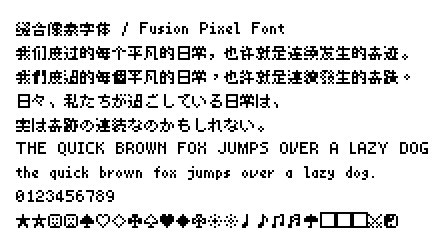
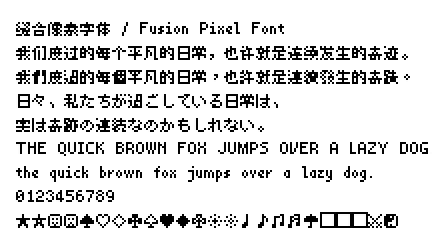
2026.05.07

diff --git a/tools/configs/__init__.py b/tools/configs/__init__.py
@@ -7,7 +7,7 @@ from tools.configs.fallback import FallbackConfig
 from tools.configs.font import FontConfig
 from tools.configs.upgrade import UpgradeConfig
 
-version = '2026.02.27'
+version = '2026.05.07'
 
 font_configs = {font_size: FontConfig.load(font_size) for font_size in options.font_sizes}
 

diff --git a/docs/info-12px-monospaced.md b/docs/info-12px-monospaced.md
@@ -4,8 +4,8 @@
 
 | 属性 | 值 |
 |---|---|
-| 版本号 | 2026.02.27 |
-| 字符总数 | 36146 |
+| 版本号 | 2026.05.07 |
+| 字符总数 | 36492 |
 
 ## Unicode 字符分布
 
@@ -24,7 +24,7 @@ Unicode 版本：17.0.0
 | 2100 ~ 214F | Letterlike Symbols | 字母式符号 | 9 / 80 | 71 | 11.25% 🚧 |
 | 2150 ~ 218F | Number Forms | 数字形式 | 60 / 60 | 0 | 100.00% 🚩 |
 | 2190 ~ 21FF | Arrows | 箭头 | 112 / 112 | 0 | 100.00% 🚩 |
-| 2300 ~ 23FF | Miscellaneous Technical | 各式技术符号 | 43 / 256 | 213 | 16.80% 🚧 |
+| 2300 ~ 23FF | Miscellaneous Technical | 各式技术符号 | 46 / 256 | 210 | 17.97% 🚧 |
 | 2460 ~ 24FF | Enclosed Alphanumerics | 包围字母数字 | 160 / 160 | 0 | 100.00% 🚩 |
 | 2500 ~ 257F | Box Drawing | 制表符 | 128 / 128 | 0 | 100.00% 🚩 |
 | 2580 ~ 259F | Block Elements | 方块元素 | 32 / 32 | 0 | 100.00% 🚩 |
@@ -43,21 +43,21 @@ Unicode 版本：17.0.0
 | 3130 ~ 318F | Hangul Compatibility Jamo | 谚文兼容字母 | 94 / 94 | 0 | 100.00% 🚩 |
 | 3200 ~ 32FF | Enclosed CJK Letters and Months | 包围中日韩字母与月份 | 92 / 255 | 163 | 36.08% 🚧 |
 | 3300 ~ 33FF | CJK Compatibility | 中日韩兼容 | 60 / 256 | 196 | 23.44% 🚧 |
-| 3400 ~ 4DBF | CJK Unified Ideographs Extension A | 中日韩统一表意文字扩充 A | 1324 / 6592 | 5268 | 20.08% 🚧 |
-| 4E00 ~ 9FFF | CJK Unified Ideographs | 中日韩统一表意文字 | 19174 / 20992 | 1818 | 91.34% 🚧 |
+| 3400 ~ 4DBF | CJK Unified Ideographs Extension A | 中日韩统一表意文字扩充 A | 1480 / 6592 | 5112 | 22.45% 🚧 |
+| 4E00 ~ 9FFF | CJK Unified Ideographs | 中日韩统一表意文字 | 19211 / 20992 | 1781 | 91.52% 🚧 |
 | A720 ~ A7FF | Latin Extended-D | 拉丁扩充-D | 7 / 204 | 197 | 3.43% 🚧 |
 | AC00 ~ D7AF | Hangul Syllables | 谚文音节 | 11172 / 11172 | 0 | 100.00% 🚩 |
-| E000 ~ F8FF | Private Use Area | 私用区域 | 238 / 0 | 0 | 100.00% 🚩 |
+| E000 ~ F8FF | Private Use Area | 私用区域 | 243 / 0 | 0 | 100.00% 🚩 |
 | FE10 ~ FE1F | Vertical Forms | 竖排形式 | 10 / 10 | 0 | 100.00% 🚩 |
 | FE30 ~ FE4F | CJK Compatibility Forms | 中日韩兼容形式 | 32 / 32 | 0 | 100.00% 🚩 |
 | FF00 ~ FFEF | Halfwidth and Fullwidth Forms | 半宽与全宽形式 | 173 / 225 | 52 | 76.89% 🚧 |
 | FFF0 ~ FFFF | Specials | 特殊 | 2 / 2 | 0 | 100.00% 🚩 |
 | 16FE0 ~ 16FFF | Ideographic Symbols and Punctuation | 表意文字符号与标点 | 5 / 12 | 7 | 41.67% 🚧 |
-| 1F100 ~ 1F1FF | Enclosed Alphanumeric Supplement | 包围字母数字增补 | 135 / 200 | 65 | 67.50% 🚧 |
-| 20000 ~ 2A6DF | CJK Unified Ideographs Extension B | 中日韩统一表意文字扩充 B | 1019 / 42720 | 41701 | 2.39% 🚧 |
-| 2A700 ~ 2B73F | CJK Unified Ideographs Extension C | 中日韩统一表意文字扩充 C | 33 / 4160 | 4127 | 0.79% 🚧 |
+| 1F100 ~ 1F1FF | Enclosed Alphanumeric Supplement | 包围字母数字增补 | 145 / 200 | 55 | 72.50% 🚧 |
+| 20000 ~ 2A6DF | CJK Unified Ideographs Extension B | 中日韩统一表意文字扩充 B | 1146 / 42720 | 41574 | 2.68% 🚧 |
+| 2A700 ~ 2B73F | CJK Unified Ideographs Extension C | 中日韩统一表意文字扩充 C | 36 / 4160 | 4124 | 0.87% 🚧 |
 | 2B740 ~ 2B81F | CJK Unified Ideographs Extension D | 中日韩统一表意文字扩充 D | 11 / 222 | 211 | 4.95% 🚧 |
-| 2B820 ~ 2CEAF | CJK Unified Ideographs Extension E | 中日韩统一表意文字扩充 E | 34 / 5774 | 5740 | 0.59% 🚧 |
+| 2B820 ~ 2CEAF | CJK Unified Ideographs Extension E | 中日韩统一表意文字扩充 E | 39 / 5774 | 5735 | 0.68% 🚧 |
 | 2CEB0 ~ 2EBEF | CJK Unified Ideographs Extension F | 中日韩统一表意文字扩充 F | 4 / 7473 | 7469 | 0.05% 🚧 |
 | 30000 ~ 3134F | CJK Unified Ideographs Extension G | 中日韩统一表意文字扩充 G | 6 / 4939 | 4933 | 0.12% 🚧 |
 
@@ -68,9 +68,9 @@ Unicode 版本：17.0.0
 | 区块名称 | 完成数 | 缺失数 | 进度 |
 |---|---:|---:|---:|
 | 一级汉字 | 3755 / 3755 | 0 | 100.00% 🚩 |
-| 二级汉字 | 2856 / 3008 | 152 | 94.95% 🚧 |
+| 二级汉字 | 2861 / 3008 | 147 | 95.11% 🚧 |
 | 其他字符 | 651 / 682 | 31 | 95.45% 🚧 |
-| 总计 | 7262 / 7445 | 183 | 97.54% 🚧 |
+| 总计 | 7267 / 7445 | 178 | 97.61% 🚧 |
 
 ## Big5 字符分布
 
@@ -79,9 +79,9 @@ Unicode 版本：17.0.0
 | 区块名称 | 完成数 | 缺失数 | 进度 |
 |---|---:|---:|---:|
 | 常用汉字 | 5401 / 5401 | 0 | 100.00% 🚩 |
-| 次常用汉字 | 6669 / 7652 | 983 | 87.15% 🚧 |
+| 次常用汉字 | 6686 / 7652 | 966 | 87.38% 🚧 |
 | 其他字符 | 345 / 408 | 63 | 84.56% 🚧 |
-| 总计 | 12415 / 13461 | 1046 | 92.23% 🚧 |
+| 总计 | 12432 / 13461 | 1029 | 92.36% 🚧 |
 
 ## Shift-JIS 字符分布
 

diff --git a/docs/info-12px-proportional.md b/docs/info-12px-proportional.md
@@ -4,8 +4,8 @@
 
 | 属性 | 值 |
 |---|---|
-| 版本号 | 2026.02.27 |
-| 字符总数 | 36165 |
+| 版本号 | 2026.05.07 |
+| 字符总数 | 36511 |
 
 ## Unicode 字符分布
 
@@ -24,7 +24,7 @@ Unicode 版本：17.0.0
 | 2100 ~ 214F | Letterlike Symbols | 字母式符号 | 9 / 80 | 71 | 11.25% 🚧 |
 | 2150 ~ 218F | Number Forms | 数字形式 | 60 / 60 | 0 | 100.00% 🚩 |
 | 2190 ~ 21FF | Arrows | 箭头 | 112 / 112 | 0 | 100.00% 🚩 |
-| 2300 ~ 23FF | Miscellaneous Technical | 各式技术符号 | 43 / 256 | 213 | 16.80% 🚧 |
+| 2300 ~ 23FF | Miscellaneous Technical | 各式技术符号 | 46 / 256 | 210 | 17.97% 🚧 |
 | 2460 ~ 24FF | Enclosed Alphanumerics | 包围字母数字 | 160 / 160 | 0 | 100.00% 🚩 |
 | 2500 ~ 257F | Box Drawing | 制表符 | 128 / 128 | 0 | 100.00% 🚩 |
 | 2580 ~ 259F | Block Elements | 方块元素 | 32 / 32 | 0 | 100.00% 🚩 |
@@ -43,21 +43,21 @@ Unicode 版本：17.0.0
 | 3130 ~ 318F | Hangul Compatibility Jamo | 谚文兼容字母 | 94 / 94 | 0 | 100.00% 🚩 |
 | 3200 ~ 32FF | Enclosed CJK Letters and Months | 包围中日韩字母与月份 | 92 / 255 | 163 | 36.08% 🚧 |
 | 3300 ~ 33FF | CJK Compatibility | 中日韩兼容 | 60 / 256 | 196 | 23.44% 🚧 |
-| 3400 ~ 4DBF | CJK Unified Ideographs Extension A | 中日韩统一表意文字扩充 A | 1324 / 6592 | 5268 | 20.08% 🚧 |
-| 4E00 ~ 9FFF | CJK Unified Ideographs | 中日韩统一表意文字 | 19174 / 20992 | 1818 | 91.34% 🚧 |
+| 3400 ~ 4DBF | CJK Unified Ideographs Extension A | 中日韩统一表意文字扩充 A | 1480 / 6592 | 5112 | 22.45% 🚧 |
+| 4E00 ~ 9FFF | CJK Unified Ideographs | 中日韩统一表意文字 | 19211 / 20992 | 1781 | 91.52% 🚧 |
 | A720 ~ A7FF | Latin Extended-D | 拉丁扩充-D | 7 / 204 | 197 | 3.43% 🚧 |
 | AC00 ~ D7AF | Hangul Syllables | 谚文音节 | 11172 / 11172 | 0 | 100.00% 🚩 |
-| E000 ~ F8FF | Private Use Area | 私用区域 | 238 / 0 | 0 | 100.00% 🚩 |
+| E000 ~ F8FF | Private Use Area | 私用区域 | 243 / 0 | 0 | 100.00% 🚩 |
 | FE10 ~ FE1F | Vertical Forms | 竖排形式 | 10 / 10 | 0 | 100.00% 🚩 |
 | FE30 ~ FE4F | CJK Compatibility Forms | 中日韩兼容形式 | 32 / 32 | 0 | 100.00% 🚩 |
 | FF00 ~ FFEF | Halfwidth and Fullwidth Forms | 半宽与全宽形式 | 173 / 225 | 52 | 76.89% 🚧 |
 | FFF0 ~ FFFF | Specials | 特殊 | 2 / 2 | 0 | 100.00% 🚩 |
 | 16FE0 ~ 16FFF | Ideographic Symbols and Punctuation | 表意文字符号与标点 | 5 / 12 | 7 | 41.67% 🚧 |
-| 1F100 ~ 1F1FF | Enclosed Alphanumeric Supplement | 包围字母数字增补 | 135 / 200 | 65 | 67.50% 🚧 |
-| 20000 ~ 2A6DF | CJK Unified Ideographs Extension B | 中日韩统一表意文字扩充 B | 1019 / 42720 | 41701 | 2.39% 🚧 |
-| 2A700 ~ 2B73F | CJK Unified Ideographs Extension C | 中日韩统一表意文字扩充 C | 33 / 4160 | 4127 | 0.79% 🚧 |
+| 1F100 ~ 1F1FF | Enclosed Alphanumeric Supplement | 包围字母数字增补 | 145 / 200 | 55 | 72.50% 🚧 |
+| 20000 ~ 2A6DF | CJK Unified Ideographs Extension B | 中日韩统一表意文字扩充 B | 1146 / 42720 | 41574 | 2.68% 🚧 |
+| 2A700 ~ 2B73F | CJK Unified Ideographs Extension C | 中日韩统一表意文字扩充 C | 36 / 4160 | 4124 | 0.87% 🚧 |
 | 2B740 ~ 2B81F | CJK Unified Ideographs Extension D | 中日韩统一表意文字扩充 D | 11 / 222 | 211 | 4.95% 🚧 |
-| 2B820 ~ 2CEAF | CJK Unified Ideographs Extension E | 中日韩统一表意文字扩充 E | 34 / 5774 | 5740 | 0.59% 🚧 |
+| 2B820 ~ 2CEAF | CJK Unified Ideographs Extension E | 中日韩统一表意文字扩充 E | 39 / 5774 | 5735 | 0.68% 🚧 |
 | 2CEB0 ~ 2EBEF | CJK Unified Ideographs Extension F | 中日韩统一表意文字扩充 F | 4 / 7473 | 7469 | 0.05% 🚧 |
 | 30000 ~ 3134F | CJK Unified Ideographs Extension G | 中日韩统一表意文字扩充 G | 6 / 4939 | 4933 | 0.12% 🚧 |
 
@@ -68,9 +68,9 @@ Unicode 版本：17.0.0
 | 区块名称 | 完成数 | 缺失数 | 进度 |
 |---|---:|---:|---:|
 | 一级汉字 | 3755 / 3755 | 0 | 100.00% 🚩 |
-| 二级汉字 | 2856 / 3008 | 152 | 94.95% 🚧 |
+| 二级汉字 | 2861 / 3008 | 147 | 95.11% 🚧 |
 | 其他字符 | 651 / 682 | 31 | 95.45% 🚧 |
-| 总计 | 7262 / 7445 | 183 | 97.54% 🚧 |
+| 总计 | 7267 / 7445 | 178 | 97.61% 🚧 |
 
 ## Big5 字符分布
 
@@ -79,9 +79,9 @@ Unicode 版本：17.0.0
 | 区块名称 | 完成数 | 缺失数 | 进度 |
 |---|---:|---:|---:|
 | 常用汉字 | 5401 / 5401 | 0 | 100.00% 🚩 |
-| 次常用汉字 | 6669 / 7652 | 983 | 87.15% 🚧 |
+| 次常用汉字 | 6686 / 7652 | 966 | 87.38% 🚧 |
 | 其他字符 | 345 / 408 | 63 | 84.56% 🚧 |
-| 总计 | 12415 / 13461 | 1046 | 92.23% 🚧 |
+| 总计 | 12432 / 13461 | 1029 | 92.36% 🚧 |
 
 ## Shift-JIS 字符分布
 

diff --git a/docs/info-10px-monospaced.md b/docs/info-10px-monospaced.md
@@ -4,8 +4,8 @@
 
 | 属性 | 值 |
 |---|---|
-| 版本号 | 2026.02.27 |
-| 字符总数 | 24709 |
+| 版本号 | 2026.05.07 |
+| 字符总数 | 24793 |
 
 ## Unicode 字符分布
 
@@ -22,7 +22,7 @@ Unicode 版本：17.0.0
 | 2100 ~ 214F | Letterlike Symbols | 字母式符号 | 9 / 80 | 71 | 11.25% 🚧 |
 | 2150 ~ 218F | Number Forms | 数字形式 | 60 / 60 | 0 | 100.00% 🚩 |
 | 2190 ~ 21FF | Arrows | 箭头 | 112 / 112 | 0 | 100.00% 🚩 |
-| 2300 ~ 23FF | Miscellaneous Technical | 各式技术符号 | 43 / 256 | 213 | 16.80% 🚧 |
+| 2300 ~ 23FF | Miscellaneous Technical | 各式技术符号 | 46 / 256 | 210 | 17.97% 🚧 |
 | 2460 ~ 24FF | Enclosed Alphanumerics | 包围字母数字 | 160 / 160 | 0 | 100.00% 🚩 |
 | 2500 ~ 257F | Box Drawing | 制表符 | 128 / 128 | 0 | 100.00% 🚩 |
 | 2580 ~ 259F | Block Elements | 方块元素 | 32 / 32 | 0 | 100.00% 🚩 |
@@ -31,7 +31,7 @@ Unicode 版本：17.0.0
 | 2700 ~ 27BF | Dingbats | 杂锦 | 34 / 192 | 158 | 17.71% 🚧 |
 | 2800 ~ 28FF | Braille Patterns | 盲文图案 | 256 / 256 | 0 | 100.00% 🚩 |
 | 2C60 ~ 2C7F | Latin Extended-C | 拉丁扩充-C | 4 / 32 | 28 | 12.50% 🚧 |
-| 2E80 ~ 2EFF | CJK Radicals Supplement | 中日韩部首增补 | 59 / 115 | 56 | 51.30% 🚧 |
+| 2E80 ~ 2EFF | CJK Radicals Supplement | 中日韩部首增补 | 80 / 115 | 35 | 69.57% 🚧 |
 | 2F00 ~ 2FDF | Kangxi Radicals | 康熙部首 | 213 / 214 | 1 | 99.53% 🚧 |
 | 2FF0 ~ 2FFF | Ideographic Description Characters | 表意文字描述字符 | 16 / 16 | 0 | 100.00% 🚩 |
 | 3000 ~ 303F | CJK Symbols and Punctuation | 中日韩符号与标点 | 64 / 64 | 0 | 100.00% 🚩 |
@@ -41,17 +41,17 @@ Unicode 版本：17.0.0
 | 3130 ~ 318F | Hangul Compatibility Jamo | 谚文兼容字母 | 94 / 94 | 0 | 100.00% 🚩 |
 | 3200 ~ 32FF | Enclosed CJK Letters and Months | 包围中日韩字母与月份 | 40 / 255 | 215 | 15.69% 🚧 |
 | 3300 ~ 33FF | CJK Compatibility | 中日韩兼容 | 60 / 256 | 196 | 23.44% 🚧 |
-| 3400 ~ 4DBF | CJK Unified Ideographs Extension A | 中日韩统一表意文字扩充 A | 9 / 6592 | 6583 | 0.14% 🚧 |
-| 4E00 ~ 9FFF | CJK Unified Ideographs | 中日韩统一表意文字 | 10515 / 20992 | 10477 | 50.09% 🚧 |
+| 3400 ~ 4DBF | CJK Unified Ideographs Extension A | 中日韩统一表意文字扩充 A | 10 / 6592 | 6582 | 0.15% 🚧 |
+| 4E00 ~ 9FFF | CJK Unified Ideographs | 中日韩统一表意文字 | 10559 / 20992 | 10433 | 50.30% 🚧 |
 | A720 ~ A7FF | Latin Extended-D | 拉丁扩充-D | 7 / 204 | 197 | 3.43% 🚧 |
 | AC00 ~ D7AF | Hangul Syllables | 谚文音节 | 11172 / 11172 | 0 | 100.00% 🚩 |
-| E000 ~ F8FF | Private Use Area | 私用区域 | 238 / 0 | 0 | 100.00% 🚩 |
+| E000 ~ F8FF | Private Use Area | 私用区域 | 243 / 0 | 0 | 100.00% 🚩 |
 | FE10 ~ FE1F | Vertical Forms | 竖排形式 | 10 / 10 | 0 | 100.00% 🚩 |
 | FE30 ~ FE4F | CJK Compatibility Forms | 中日韩兼容形式 | 32 / 32 | 0 | 100.00% 🚩 |
 | FF00 ~ FFEF | Halfwidth and Fullwidth Forms | 半宽与全宽形式 | 173 / 225 | 52 | 76.89% 🚧 |
 | FFF0 ~ FFFF | Specials | 特殊 | 2 / 2 | 0 | 100.00% 🚩 |
 | 16FE0 ~ 16FFF | Ideographic Symbols and Punctuation | 表意文字符号与标点 | 5 / 12 | 7 | 41.67% 🚧 |
-| 1F100 ~ 1F1FF | Enclosed Alphanumeric Supplement | 包围字母数字增补 | 135 / 200 | 65 | 67.50% 🚧 |
+| 1F100 ~ 1F1FF | Enclosed Alphanumeric Supplement | 包围字母数字增补 | 145 / 200 | 55 | 72.50% 🚧 |
 | 20000 ~ 2A6DF | CJK Unified Ideographs Extension B | 中日韩统一表意文字扩充 B | 2 / 42720 | 42718 | 0.00% 🚧 |
 | 2CEB0 ~ 2EBEF | CJK Unified Ideographs Extension F | 中日韩统一表意文字扩充 F | 1 / 7473 | 7472 | 0.01% 🚧 |
 
@@ -62,9 +62,9 @@ Unicode 版本：17.0.0
 | 区块名称 | 完成数 | 缺失数 | 进度 |
 |---|---:|---:|---:|
 | 一级汉字 | 3755 / 3755 | 0 | 100.00% 🚩 |
-| 二级汉字 | 2081 / 3008 | 927 | 69.18% 🚧 |
+| 二级汉字 | 2122 / 3008 | 886 | 70.55% 🚧 |
 | 其他字符 | 537 / 682 | 145 | 78.74% 🚧 |
-| 总计 | 6373 / 7445 | 1072 | 85.60% 🚧 |
+| 总计 | 6414 / 7445 | 1031 | 86.15% 🚧 |
 
 ## Big5 字符分布
 
@@ -73,9 +73,9 @@ Unicode 版本：17.0.0
 | 区块名称 | 完成数 | 缺失数 | 进度 |
 |---|---:|---:|---:|
 | 常用汉字 | 5401 / 5401 | 0 | 100.00% 🚩 |
-| 次常用汉字 | 2136 / 7652 | 5516 | 27.91% 🚧 |
+| 次常用汉字 | 2137 / 7652 | 5515 | 27.93% 🚧 |
 | 其他字符 | 297 / 408 | 111 | 72.79% 🚧 |
-| 总计 | 7834 / 13461 | 5627 | 58.20% 🚧 |
+| 总计 | 7835 / 13461 | 5626 | 58.21% 🚧 |
 
 ## Shift-JIS 字符分布
 

diff --git a/docs/info-10px-proportional.md b/docs/info-10px-proportional.md
@@ -4,8 +4,8 @@
 
 | 属性 | 值 |
 |---|---|
-| 版本号 | 2026.02.27 |
-| 字符总数 | 24978 |
+| 版本号 | 2026.05.07 |
+| 字符总数 | 25062 |
 
 ## Unicode 字符分布
 
@@ -24,7 +24,7 @@ Unicode 版本：17.0.0
 | 2100 ~ 214F | Letterlike Symbols | 字母式符号 | 9 / 80 | 71 | 11.25% 🚧 |
 | 2150 ~ 218F | Number Forms | 数字形式 | 60 / 60 | 0 | 100.00% 🚩 |
 | 2190 ~ 21FF | Arrows | 箭头 | 112 / 112 | 0 | 100.00% 🚩 |
-| 2300 ~ 23FF | Miscellaneous Technical | 各式技术符号 | 43 / 256 | 213 | 16.80% 🚧 |
+| 2300 ~ 23FF | Miscellaneous Technical | 各式技术符号 | 46 / 256 | 210 | 17.97% 🚧 |
 | 2460 ~ 24FF | Enclosed Alphanumerics | 包围字母数字 | 160 / 160 | 0 | 100.00% 🚩 |
 | 2500 ~ 257F | Box Drawing | 制表符 | 128 / 128 | 0 | 100.00% 🚩 |
 | 2580 ~ 259F | Block Elements | 方块元素 | 32 / 32 | 0 | 100.00% 🚩 |
@@ -33,7 +33,7 @@ Unicode 版本：17.0.0
 | 2700 ~ 27BF | Dingbats | 杂锦 | 34 / 192 | 158 | 17.71% 🚧 |
 | 2800 ~ 28FF | Braille Patterns | 盲文图案 | 256 / 256 | 0 | 100.00% 🚩 |
 | 2C60 ~ 2C7F | Latin Extended-C | 拉丁扩充-C | 4 / 32 | 28 | 12.50% 🚧 |
-| 2E80 ~ 2EFF | CJK Radicals Supplement | 中日韩部首增补 | 59 / 115 | 56 | 51.30% 🚧 |
+| 2E80 ~ 2EFF | CJK Radicals Supplement | 中日韩部首增补 | 80 / 115 | 35 | 69.57% 🚧 |
 | 2F00 ~ 2FDF | Kangxi Radicals | 康熙部首 | 213 / 214 | 1 | 99.53% 🚧 |
 | 2FF0 ~ 2FFF | Ideographic Description Characters | 表意文字描述字符 | 16 / 16 | 0 | 100.00% 🚩 |
 | 3000 ~ 303F | CJK Symbols and Punctuation | 中日韩符号与标点 | 64 / 64 | 0 | 100.00% 🚩 |
@@ -43,17 +43,17 @@ Unicode 版本：17.0.0
 | 3130 ~ 318F | Hangul Compatibility Jamo | 谚文兼容字母 | 94 / 94 | 0 | 100.00% 🚩 |
 | 3200 ~ 32FF | Enclosed CJK Letters and Months | 包围中日韩字母与月份 | 40 / 255 | 215 | 15.69% 🚧 |
 | 3300 ~ 33FF | CJK Compatibility | 中日韩兼容 | 60 / 256 | 196 | 23.44% 🚧 |
-| 3400 ~ 4DBF | CJK Unified Ideographs Extension A | 中日韩统一表意文字扩充 A | 9 / 6592 | 6583 | 0.14% 🚧 |
-| 4E00 ~ 9FFF | CJK Unified Ideographs | 中日韩统一表意文字 | 10515 / 20992 | 10477 | 50.09% 🚧 |
+| 3400 ~ 4DBF | CJK Unified Ideographs Extension A | 中日韩统一表意文字扩充 A | 10 / 6592 | 6582 | 0.15% 🚧 |
+| 4E00 ~ 9FFF | CJK Unified Ideographs | 中日韩统一表意文字 | 10559 / 20992 | 10433 | 50.30% 🚧 |
 | A720 ~ A7FF | Latin Extended-D | 拉丁扩充-D | 7 / 204 | 197 | 3.43% 🚧 |
 | AC00 ~ D7AF | Hangul Syllables | 谚文音节 | 11172 / 11172 | 0 | 100.00% 🚩 |
-| E000 ~ F8FF | Private Use Area | 私用区域 | 238 / 0 | 0 | 100.00% 🚩 |
+| E000 ~ F8FF | Private Use Area | 私用区域 | 243 / 0 | 0 | 100.00% 🚩 |
 | FE10 ~ FE1F | Vertical Forms | 竖排形式 | 10 / 10 | 0 | 100.00% 🚩 |
 | FE30 ~ FE4F | CJK Compatibility Forms | 中日韩兼容形式 | 32 / 32 | 0 | 100.00% 🚩 |
 | FF00 ~ FFEF | Halfwidth and Fullwidth Forms | 半宽与全宽形式 | 173 / 225 | 52 | 76.89% 🚧 |
 | FFF0 ~ FFFF | Specials | 特殊 | 2 / 2 | 0 | 100.00% 🚩 |
 | 16FE0 ~ 16FFF | Ideographic Symbols and Punctuation | 表意文字符号与标点 | 5 / 12 | 7 | 41.67% 🚧 |
-| 1F100 ~ 1F1FF | Enclosed Alphanumeric Supplement | 包围字母数字增补 | 135 / 200 | 65 | 67.50% 🚧 |
+| 1F100 ~ 1F1FF | Enclosed Alphanumeric Supplement | 包围字母数字增补 | 145 / 200 | 55 | 72.50% 🚧 |
 | 20000 ~ 2A6DF | CJK Unified Ideographs Extension B | 中日韩统一表意文字扩充 B | 2 / 42720 | 42718 | 0.00% 🚧 |
 | 2CEB0 ~ 2EBEF | CJK Unified Ideographs Extension F | 中日韩统一表意文字扩充 F | 1 / 7473 | 7472 | 0.01% 🚧 |
 
@@ -64,9 +64,9 @@ Unicode 版本：17.0.0
 | 区块名称 | 完成数 | 缺失数 | 进度 |
 |---|---:|---:|---:|
 | 一级汉字 | 3755 / 3755 | 0 | 100.00% 🚩 |
-| 二级汉字 | 2081 / 3008 | 927 | 69.18% 🚧 |
+| 二级汉字 | 2122 / 3008 | 886 | 70.55% 🚧 |
 | 其他字符 | 651 / 682 | 31 | 95.45% 🚧 |
-| 总计 | 6487 / 7445 | 958 | 87.13% 🚧 |
+| 总计 | 6528 / 7445 | 917 | 87.68% 🚧 |
 
 ## Big5 字符分布
 
@@ -75,9 +75,9 @@ Unicode 版本：17.0.0
 | 区块名称 | 完成数 | 缺失数 | 进度 |
 |---|---:|---:|---:|
 | 常用汉字 | 5401 / 5401 | 0 | 100.00% 🚩 |
-| 次常用汉字 | 2136 / 7652 | 5516 | 27.91% 🚧 |
+| 次常用汉字 | 2137 / 7652 | 5515 | 27.93% 🚧 |
 | 其他字符 | 345 / 408 | 63 | 84.56% 🚧 |
-| 总计 | 7882 / 13461 | 5579 | 58.55% 🚧 |
+| 总计 | 7883 / 13461 | 5578 | 58.56% 🚧 |
 
 ## Shift-JIS 字符分布
 

diff --git a/docs/info-8px-monospaced.md b/docs/info-8px-monospaced.md
@@ -4,8 +4,8 @@
 
 | 属性 | 值 |
 |---|---|
-| 版本号 | 2026.02.27 |
-| 字符总数 | 27986 |
+| 版本号 | 2026.05.07 |
+| 字符总数 | 27976 |
 
 ## Unicode 字符分布
 
@@ -27,7 +27,6 @@ Unicode 版本：17.0.0
 | 2580 ~ 259F | Block Elements | 方块元素 | 32 / 32 | 0 | 100.00% 🚩 |
 | 25A0 ~ 25FF | Geometric Shapes | 几何形状 | 96 / 96 | 0 | 100.00% 🚩 |
 | 2600 ~ 26FF | Miscellaneous Symbols | 各式符号 | 75 / 256 | 181 | 29.30% 🚧 |
-| 2700 ~ 27BF | Dingbats | 杂锦 | 10 / 192 | 182 | 5.21% 🚧 |
 | 2800 ~ 28FF | Braille Patterns | 盲文图案 | 256 / 256 | 0 | 100.00% 🚩 |
 | 2E80 ~ 2EFF | CJK Radicals Supplement | 中日韩部首增补 | 78 / 115 | 37 | 67.83% 🚧 |
 | 2F00 ~ 2FDF | Kangxi Radicals | 康熙部首 | 214 / 214 | 0 | 100.00% 🚩 |

diff --git a/docs/info-8px-proportional.md b/docs/info-8px-proportional.md
@@ -4,8 +4,8 @@
 
 | 属性 | 值 |
 |---|---|
-| 版本号 | 2026.02.27 |
-| 字符总数 | 27986 |
+| 版本号 | 2026.05.07 |
+| 字符总数 | 27976 |
 
 ## Unicode 字符分布
 
@@ -27,7 +27,6 @@ Unicode 版本：17.0.0
 | 2580 ~ 259F | Block Elements | 方块元素 | 32 / 32 | 0 | 100.00% 🚩 |
 | 25A0 ~ 25FF | Geometric Shapes | 几何形状 | 96 / 96 | 0 | 100.00% 🚩 |
 | 2600 ~ 26FF | Miscellaneous Symbols | 各式符号 | 75 / 256 | 181 | 29.30% 🚧 |
-| 2700 ~ 27BF | Dingbats | 杂锦 | 10 / 192 | 182 | 5.21% 🚧 |
 | 2800 ~ 28FF | Braille Patterns | 盲文图案 | 256 / 256 | 0 | 100.00% 🚩 |
 | 2E80 ~ 2EFF | CJK Radicals Supplement | 中日韩部首增补 | 78 / 115 | 37 | 67.83% 🚧 |
 | 2F00 ~ 2FDF | Kangxi Radicals | 康熙部首 | 214 / 214 | 0 | 100.00% 🚩 |